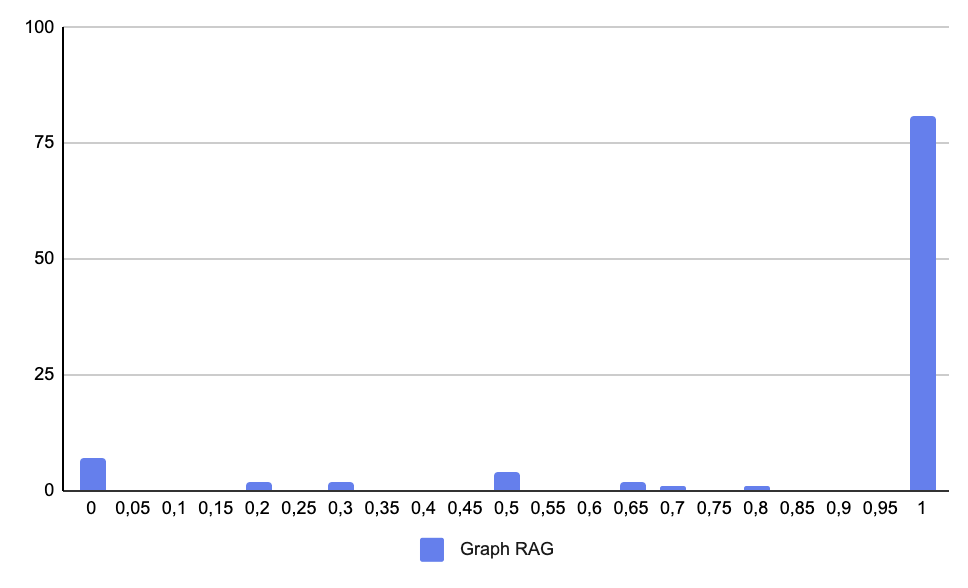
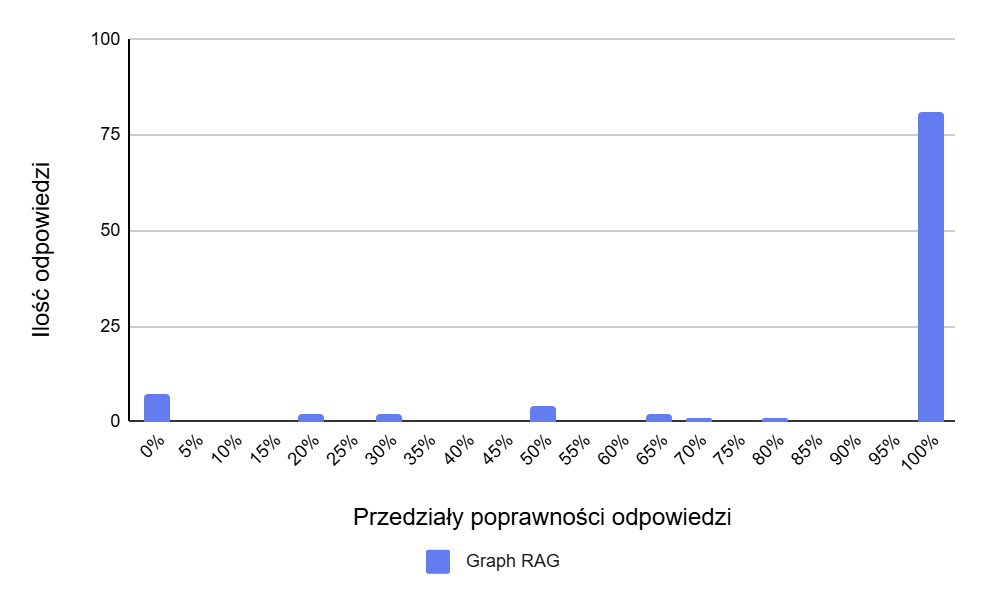
poprawki wykresów

diff --git a/overleaf/main.tex b/overleaf/main.tex
@@ -1588,7 +1588,7 @@ Na korzyść \textit{Graph RAG} przemawia również mediana wyników, przedstawi
 \label{tab:3}
 \end{table}
 
-W celu sprawdzenia tej hipotezy opracowujemy przedstawiony na rysunku \ref{fig:box_plot} wykres pudełkowy. Wyniki uzyskane w eksperymencie we wszystkich trzech metodach charakteryzują się skośnością ujemną. Oznacza to, że rozkład odpowiedzi nie jest symetryczny, lecz przesunięty w stronę wartości wyższych (bliższych 1). Innymi słowy, większość uzyskanych wyników koncentruje się w prawej części przedziału [0, 1], podczas gdy lewy ogon rozkładu (w kierunku wartości bliskich 0) jest wydłużony. Taki kształt rozkładu wskazuje, że modele częściej generują odpowiedzi o stosunkowo wysokich wartościach, natomiast rzadziej - choć nadal istotne - pojawiają się wyniki znacznie niższe, które powodują odchylenie całego rozkładu w lewą stronę.
+W celu sprawdzenia tej hipotezy opracowujemy przedstawiony na rysunku \ref{fig:box_plot} wykres pudełkowy. Wyniki uzyskane w eksperymencie we wszystkich trzech metodach charakteryzują się skośnością ujemną. Oznacza to, że rozkład odpowiedzi nie jest symetryczny, lecz przesunięty w stronę wartości wyższych (bliższych 100\%). Innymi słowy, większość uzyskanych wyników koncentruje się w prawej części przedziału [0\%, 100\%], podczas gdy lewy ogon rozkładu (w kierunku wartości bliskich 0\%) jest wydłużony. Taki kształt rozkładu wskazuje, że modele częściej generują odpowiedzi o stosunkowo wysokich wartościach, natomiast rzadziej - choć nadal istotne - pojawiają się wyniki znacznie niższe, które powodują odchylenie całego rozkładu w lewą stronę.
 
 \begin{figure}[H]
 \includegraphics[width=\linewidth]{images/fig/box_plot.png}
@@ -1596,7 +1596,7 @@ W celu sprawdzenia tej hipotezy opracowujemy przedstawiony na rysunku \ref{fig:b
 \caption{Wykres pudełkowy wyników \textit{Graph RAG, RAG v1, RAG v2} - ocena z użyciem \textit{embeddings similarity}.}
 \label{fig:box_plot}
 \end{figure}
-W przypadku metody \textit{Graph RAG} obserwowana skośność rozkładu jest najbardziej wyraźna spośród analizowanych wariantów. Oznacza to, że wartości podobieństwa embeddingów w tej metodzie w jeszcze większym stopniu skupiają się w pobliżu górnej granicy przedziału, co świadczy o wysokim poziomie zgodności semantycznej pomiędzy odpowiedziami metod, a odpowiedziami oczekiwanymi. Jednocześnie obecność wartości odstających o znacząco niższym podobieństwie (0.1-0.3), sugeruje, że występują sporadyczne błędy w działaniu \textit{Graph RAG}. 
+W przypadku metody \textit{Graph RAG} obserwowana skośność rozkładu jest najbardziej wyraźna spośród analizowanych wariantów. Oznacza to, że wartości podobieństwa embeddingów w tej metodzie w jeszcze większym stopniu skupiają się w pobliżu górnej granicy przedziału, co świadczy o wysokim poziomie zgodności semantycznej pomiędzy odpowiedziami metod, a odpowiedziami oczekiwanymi. Jednocześnie obecność wartości odstających o znacząco niższym podobieństwie (5--30\%), sugeruje, że \textit{Graph RAG} sporadycznie udziela niepoprawnych odpowiedzi. 
 
 Warto zauważyć również, że stosunkowo wąski zakres wartości (niewielka rozpiętość między kwartylami) sugeruje stabilność działania modelu oraz konsekwentne utrzymywanie wysokiej jakości generowanych odpowiedzi.
 
